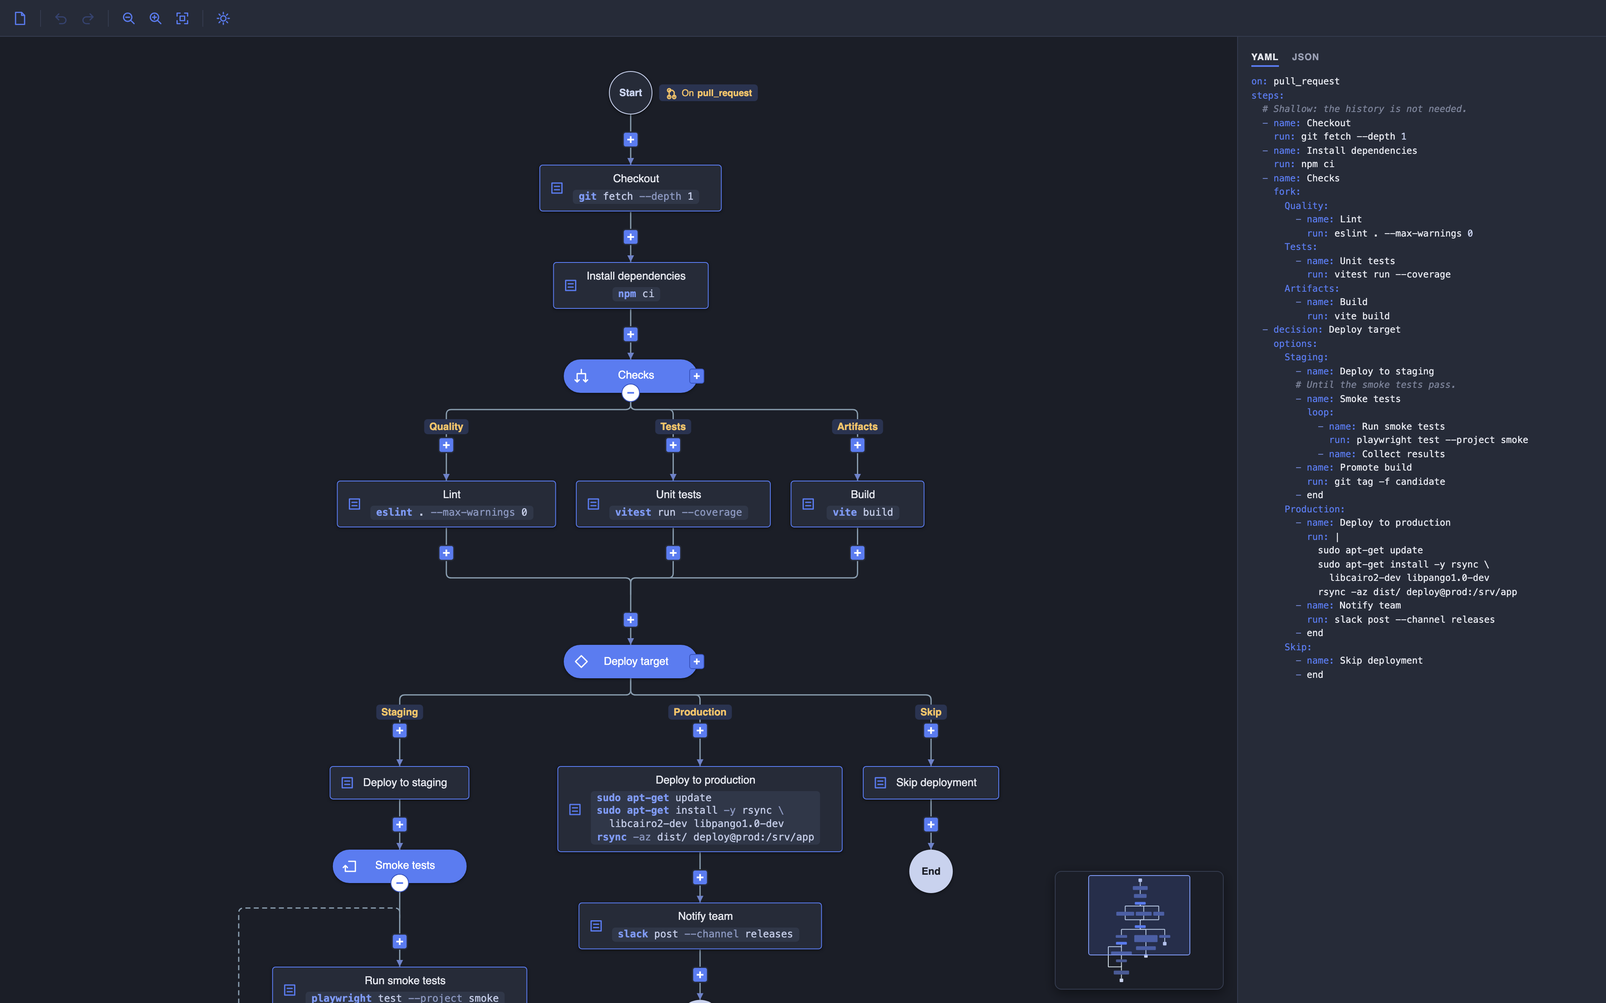
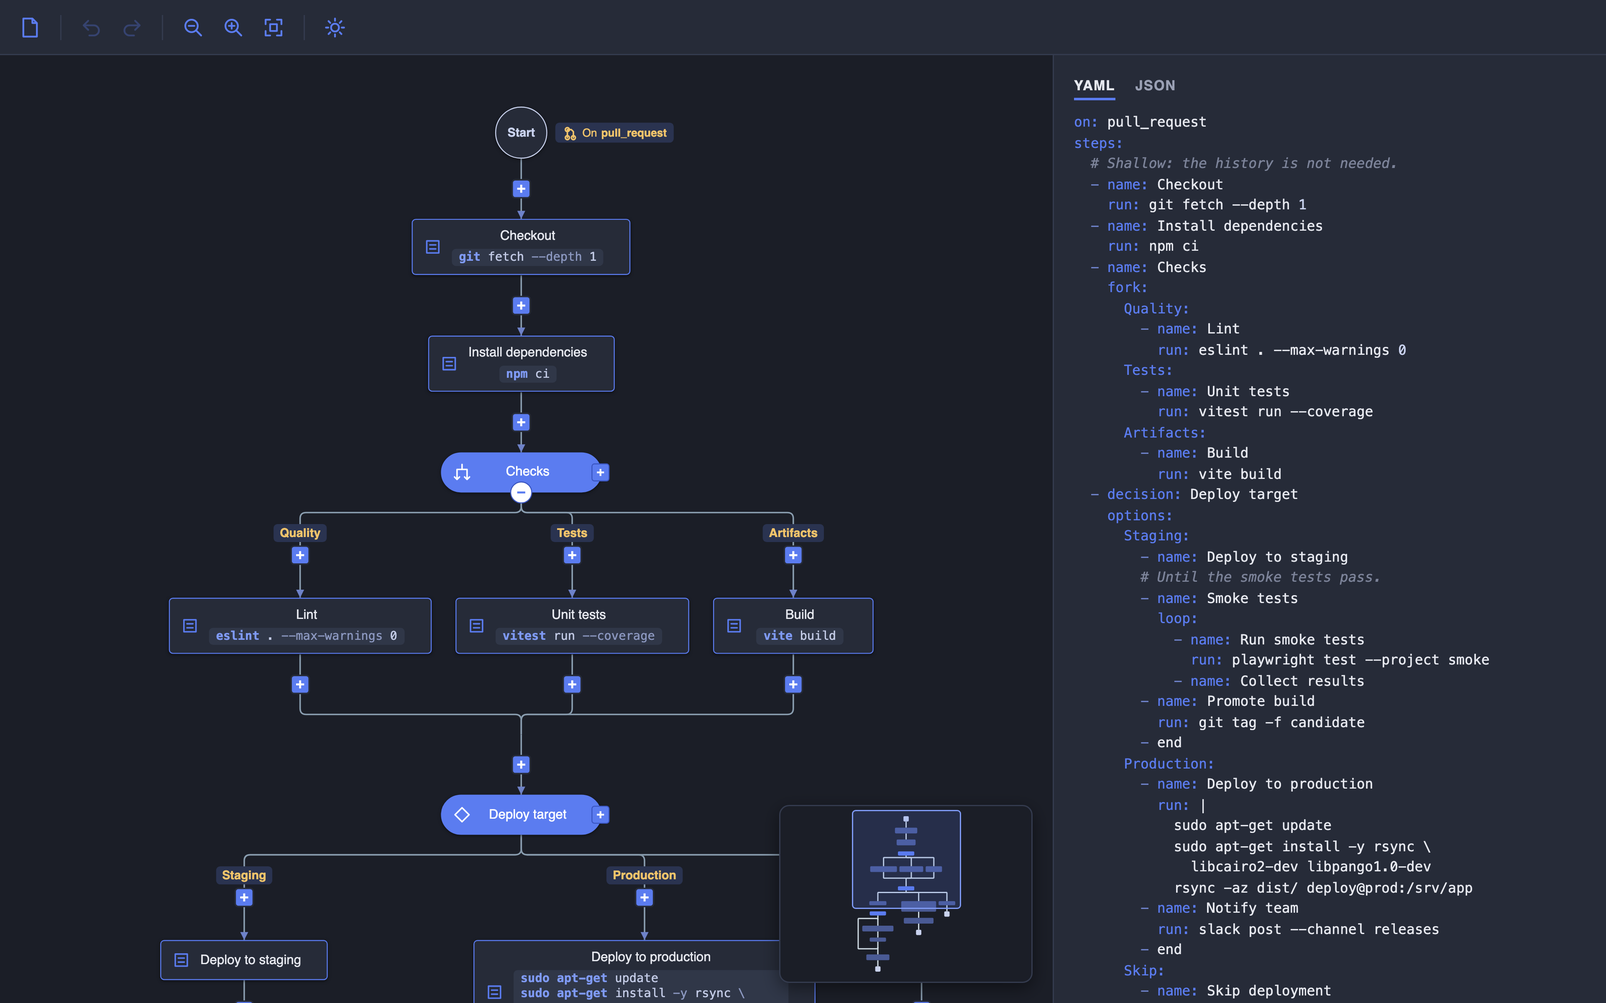
refactor(ci-pipeline-editor): the box of a loop carries the room for its return link
The return link of a loop ran outside the box of the group, and the room
for it was asked of the tree layout as the `prevSiblingGap` of the loop -
and only when the loop had a sibling on its left, because a gap on one
side moves an element by half of it and a lone loop is to line up with
its parent.

That left the room invisible to everything else. A neighbouring column,
which is not a sibling of the loop but the subtree of an uncle, knew
nothing about it and came close enough for the link to cross it.

The box holds the room now, a gap on each side of the axis, and
`makeRoomForReturnLinks()` is gone. A width is geometry: every bounding
box and every layout around the group accounts for it by itself. Both
sides, so that the axis stays the center of the group and what hangs
below it lines up with the gates.

`fitGroupToContent()` sizes a group symmetrically around its axis for the
same reason, rather than hugging its content.

diff --git a/ci-pipeline-editor/react/src/layout/loop.ts b/ci-pipeline-editor/react/src/layout/loop.ts
@@ -27,10 +27,8 @@ import { createTreeLayout, fitGroupToContent, forkChildrenFrom, getAxisX, isSame
 
 /**
  * Horizontal distance between the return link and the tree. The link runs
- * outside of the box of the group; a loop with a sibling on its left asks
- * the tree layout for that much more room before it (see
- * `makeRoomForReturnLinks()` in `layout/index.ts`), so that the sibling keeps
- * clear of the link.
+ * beside the content, inside the box of the group, which is that much wider
+ * on each side of its axis to hold it.
  */
 export const LOOP_GAP = 40;
 /**
@@ -85,8 +83,7 @@ function collectTree(graph: dia.Graph, roots: dia.Element[]): dia.Element[] {
  * 1. The tree grows down from `start` (with `end` excluded from the layout),
  *    centered on the axis of `start` as the tree layout puts it: a chain of
  *    nodes lines up with the gates. The return link runs a gap left of the
- *    tree, outside of the box of the group; the group's `prevSiblingGap`
- *    keeps a sibling on the left clear of it.
+ *    tree, inside the box of the group, which carries the room for it.
  * 2. `end` is placed below the tree, on the axis, as far as balances the
  *    return link around the tree - a short way below `start` when there is
  *    no tree.
@@ -114,7 +111,7 @@ export function layoutLoopGroup(graph: dia.Graph, group: GroupModel): void {
     // An emptied loop has no tree: `start` links straight down to `end`, and the column of `start` stands in.
     const treeBBox = graph.getCellsBBox(tree) ?? new g.Rect(startBBox.x, startBBox.corner().y + PARENT_GAP, startBBox.width, 0);
 
-    // The return link runs a gap left of everything, outside of the box of the group.
+    // The return link runs a gap left of everything, inside the box of the group.
     const returnX = Math.min(treeBBox.x, startBBox.x) - LOOP_GAP;
 
     // `end` below the tree, as far as balances the return link's run around
@@ -165,8 +162,9 @@ export function layoutLoopGroup(graph: dia.Graph, group: GroupModel): void {
     }
 
     // The box of the group: the tree and the gates, the drop of the return
-    // link below `end` included - not the link's run up the side, which the
-    // `prevSiblingGap` of the group makes room for.
+    // link below `end` included, and a gap on each side of the axis for the
+    // link's run up the side. On each side, so that the axis stays the center
+    // of the group and what hangs below it lines up with the gates.
     const content = treeBBox.union(startBBox).union(end.getBBox()).union(new g.Rect(endX, belowEnd, 0, 0));
-    fitGroupToContent(group, content);
+    fitGroupToContent(group, content, LOOP_GAP);
 }

diff --git a/ci-pipeline-editor/ts/src/layout/loop.ts b/ci-pipeline-editor/ts/src/layout/loop.ts
@@ -26,10 +26,8 @@ import { createTreeLayout, fitGroupToContent, forkChildrenFrom, getAxisX, isSame
 
 /**
  * Horizontal distance between the return link and the tree. The link runs
- * outside of the box of the group; a loop with a sibling on its left asks
- * the tree layout for that much more room before it (see
- * `makeRoomForReturnLinks()` in `layout/index.ts`), so that the sibling keeps
- * clear of the link.
+ * beside the content, inside the box of the group, which is that much wider
+ * on each side of its axis to hold it.
  */
 export const LOOP_GAP = 40;
 /**
@@ -84,8 +82,7 @@ function collectTree(graph: dia.Graph, roots: dia.Element[]): dia.Element[] {
  * 1. The tree grows down from `start` (with `end` excluded from the layout),
  *    centered on the axis of `start` as the tree layout puts it: a chain of
  *    nodes lines up with the gates. The return link runs a gap left of the
- *    tree, outside of the box of the group; the group's `prevSiblingGap`
- *    keeps a sibling on the left clear of it.
+ *    tree, inside the box of the group, which carries the room for it.
  * 2. `end` is placed below the tree, on the axis, as far as balances the
  *    return link around the tree - a short way below `start` when there is
  *    no tree.
@@ -113,7 +110,7 @@ export function layoutLoopGroup(graph: dia.Graph, group: GroupModel): void {
     // An emptied loop has no tree: `start` links straight down to `end`, and the column of `start` stands in.
     const treeBBox = graph.getCellsBBox(tree) ?? new g.Rect(startBBox.x, startBBox.corner().y + PARENT_GAP, startBBox.width, 0);
 
-    // The return link runs a gap left of everything, outside of the box of the group.
+    // The return link runs a gap left of everything, inside the box of the group.
     const returnX = Math.min(treeBBox.x, startBBox.x) - LOOP_GAP;
 
     // `end` below the tree, as far as balances the return link's run around
@@ -164,8 +161,9 @@ export function layoutLoopGroup(graph: dia.Graph, group: GroupModel): void {
     }
 
     // The box of the group: the tree and the gates, the drop of the return
-    // link below `end` included - not the link's run up the side, which the
-    // `prevSiblingGap` of the group makes room for.
+    // link below `end` included, and a gap on each side of the axis for the
+    // link's run up the side. On each side, so that the axis stays the center
+    // of the group and what hangs below it lines up with the gates.
     const content = treeBBox.union(startBBox).union(end.getBBox()).union(new g.Rect(endX, belowEnd, 0, 0));
-    fitGroupToContent(group, content);
+    fitGroupToContent(group, content, LOOP_GAP);
 }

diff --git a/ci-pipeline-editor/react/src/layout/index.ts b/ci-pipeline-editor/react/src/layout/index.ts
@@ -1,7 +1,7 @@
 import type { dia, g } from '@joint/plus';
 
 import { layoutForkGroup } from './fork';
-import { LOOP_GAP, LOOP_START_ROOM, layoutLoopGroup } from './loop';
+import { LOOP_START_ROOM, layoutLoopGroup } from './loop';
 import { AddButtonModel, DecisionModel, GroupModel, GroupStartModel, LinkModel, isGate } from '../shapes';
 import type { GroupKind } from '../shapes';
 import { createTreeLayout } from './tree';
@@ -122,24 +122,6 @@ function nameOptions(graph: dia.Graph): void {
     }
 }
 
-/**
- * Gives every expanded loop with a sibling on its left extra room before it
- * (`prevSiblingGap`), for its return link, which runs outside of the box of
- * the group. Not a loop without one: the tree layout would shift a lone
- * child by half the gap, and a loop below a single parent is to line up
- * with it. Not a collapsed loop either: it shows no return link.
- */
-function makeRoomForReturnLinks(graph: dia.Graph): void {
-    for (const group of graph.getElements().filter(GroupModel.isGroup)) {
-        if (group.getKind() !== 'loop') continue;
-        // A collapsed loop shows no return link: no room for it.
-        const [parent] = graph.getNeighbors(group, { inbound: true });
-        const siblings = parent && !group.isCollapsed() ? getOptions(graph, parent) : [];
-        siblings.sort((a, b) => ((a.get('siblingRank') ?? 0) - (b.get('siblingRank') ?? 0)) || (a.getBBox().x - b.getBBox().x));
-        group.set({ prevSiblingGap: siblings.indexOf(group) > 0 ? LOOP_GAP : 0 });
-    }
-}
-
 /** Lays out the content of an expanded group; each kind of group has a layout of its own. */
 function layoutGroup(graph: dia.Graph, group: GroupModel): void {
     switch (group.getKind()) {
@@ -222,7 +204,6 @@ function anchorGroupLinks(graph: dia.Graph, groups: GroupModel[]): void {
 export function runLayout(graph: dia.Graph, root: dia.Element): g.Rect | null {
 
     makeRoomForOptions(graph);
-    makeRoomForReturnLinks(graph);
 
     const groups = graph.getElements()
         .filter(GroupModel.isGroup)

diff --git a/ci-pipeline-editor/ts/src/layout/index.ts b/ci-pipeline-editor/ts/src/layout/index.ts
@@ -1,7 +1,7 @@
 import type { dia, g } from '@joint/plus';
 
 import { layoutForkGroup } from './fork';
-import { LOOP_GAP, LOOP_START_ROOM, layoutLoopGroup } from './loop';
+import { LOOP_START_ROOM, layoutLoopGroup } from './loop';
 import { AddButtonModel, DecisionModel, GroupModel, GroupStartModel, LinkModel, isGate } from '../shapes';
 import type { GroupKind } from '../shapes';
 import { createTreeLayout } from './tree';
@@ -122,24 +122,6 @@ function nameOptions(graph: dia.Graph): void {
     }
 }
 
-/**
- * Gives every expanded loop with a sibling on its left extra room before it
- * (`prevSiblingGap`), for its return link, which runs outside of the box of
- * the group. Not a loop without one: the tree layout would shift a lone
- * child by half the gap, and a loop below a single parent is to line up
- * with it. Not a collapsed loop either: it shows no return link.
- */
-function makeRoomForReturnLinks(graph: dia.Graph): void {
-    for (const group of graph.getElements().filter(GroupModel.isGroup)) {
-        if (group.getKind() !== 'loop') continue;
-        // A collapsed loop shows no return link: no room for it.
-        const [parent] = graph.getNeighbors(group, { inbound: true });
-        const siblings = parent && !group.isCollapsed() ? getOptions(graph, parent) : [];
-        siblings.sort((a, b) => ((a.get('siblingRank') ?? 0) - (b.get('siblingRank') ?? 0)) || (a.getBBox().x - b.getBBox().x));
-        group.set({ prevSiblingGap: siblings.indexOf(group) > 0 ? LOOP_GAP : 0 });
-    }
-}
-
 /** Lays out the content of an expanded group; each kind of group has a layout of its own. */
 function layoutGroup(graph: dia.Graph, group: GroupModel): void {
     switch (group.getKind()) {
@@ -222,7 +204,6 @@ function anchorGroupLinks(graph: dia.Graph, groups: GroupModel[]): void {
 export function runLayout(graph: dia.Graph, root: dia.Element): g.Rect | null {
 
     makeRoomForOptions(graph);
-    makeRoomForReturnLinks(graph);
 
     const groups = graph.getElements()
         .filter(GroupModel.isGroup)

diff --git a/ci-pipeline-editor/react/src/layout/tree.ts b/ci-pipeline-editor/react/src/layout/tree.ts
@@ -77,11 +77,13 @@ export function createTreeLayout(graph: dia.Graph, options: Partial<layout.TreeL
  * (see `anchorGroupLinks()` in `index.ts`), so the group does not have to be
  * symmetric around it.
  */
-export function fitGroupToContent(group: GroupModel, content: g.Rect): void {
+export function fitGroupToContent(group: GroupModel, content: g.Rect, outside: number = 0): void {
+    const axisX = group.getAxisX();
+    const halfWidth = Math.max(axisX - content.x, content.corner().x - axisX) + outside + GROUP_PADDING;
     const top = group.getStart().getBBox().y;
     const bottom = group.getEnd().getBBox().corner().y;
-    group.position(content.x - GROUP_PADDING, top);
-    group.resize(content.width + 2 * GROUP_PADDING, bottom - top);
+    group.position(axisX - halfWidth, top);
+    group.resize(2 * halfWidth, bottom - top);
 }
 
 /**

diff --git a/ci-pipeline-editor/ts/src/layout/tree.ts b/ci-pipeline-editor/ts/src/layout/tree.ts
@@ -76,11 +76,13 @@ export function createTreeLayout(graph: dia.Graph, options: Partial<layout.TreeL
  * (see `anchorGroupLinks()` in `index.ts`), so the group does not have to be
  * symmetric around it.
  */
-export function fitGroupToContent(group: GroupModel, content: g.Rect): void {
+export function fitGroupToContent(group: GroupModel, content: g.Rect, outside: number = 0): void {
+    const axisX = group.getAxisX();
+    const halfWidth = Math.max(axisX - content.x, content.corner().x - axisX) + outside + GROUP_PADDING;
     const top = group.getStart().getBBox().y;
     const bottom = group.getEnd().getBBox().corner().y;
-    group.position(content.x - GROUP_PADDING, top);
-    group.resize(content.width + 2 * GROUP_PADDING, bottom - top);
+    group.position(axisX - halfWidth, top);
+    group.resize(2 * halfWidth, bottom - top);
 }
 
 /**

diff --git a/ci-pipeline-editor/ts/README.md b/ci-pipeline-editor/ts/README.md
@@ -89,7 +89,7 @@ An editor of a CI/CD pipeline, built with JointJS+: a tree laid out by `layout.T
 1. The build embeds in a group its start node, its content, its end node and the inner links. The outer links (`parent → group`, `group → child`) are attached to the group element. A fork with two branches `a` and `b` embeds them and the links `start → a`, `start → b`, `a → end`, `b → end`. A group without branches is empty: a fork embeds `start → end`, a loop `start → end` and the return link `end → start`. Branches are added with the button on the start of a fork; a loop grows by insertions into its first link.
 2. `runLayout()` sorts the expanded groups by depth, deepest first, and lays each of them out by its kind. A fresh `TreeLayout` is used for every tree: its `updatePosition` moves elements with `{ deep: true }`, so a nested group carries its content along, and its `filter` drops the end node the tree would otherwise run into, so that the content stays a tree.
 3. *Fork group:* `layoutTree(start)` lays out the branches. The end node is placed below the bounding box of that tree (`treeLayout.getLayoutArea(start)`) on the vertical axis of the start node -- a parent gap plus a third further down, so that the part of a join a leaf has of its own is a full parent gap long -- and the links into it get two vertices forming a horizontal bar, a third of the gap above the end node.
-4. *Loop group:* `layoutTree(start)` lays out the tree centered on the axis of the start node, as the tree layout puts it, so that a chain of nodes lines up with the gates; the end node is placed below the tree on that axis, as far as makes the return link run as far above the tree as below it. The return link runs a gap left of the tree, outside of the box of the group; a loop with a sibling on its left gets that gap as its `prevSiblingGap` in the tree layout (`makeRoomForReturnLinks()`), a lone one does not, as the gap would shift it off its parent. The tree hangs from the start node with the usual bar, and its leaves enter the end node from the side, on its level -- a leaf right above the end node connects straight. The return link runs down the link out of the end node and diverges from it a drop below, turns left, runs up the side of the group, turns right under the start node, merges into the link out of the start node a drop below the pill and ends a little further down it (a `bottom` anchor with a `dy`); it has no arrowhead, an arrow label in its middle, turned along the link, shows the way -- above the insert buttons of those links, which move down to make way; it lies below the other links (`z: 0`), so that a leaf entering the end node from the left runs over it.
+4. *Loop group:* `layoutTree(start)` lays out the tree centered on the axis of the start node, as the tree layout puts it, so that a chain of nodes lines up with the gates; the end node is placed below the tree on that axis, as far as makes the return link run as far above the tree as below it. The return link runs a gap left of the tree, inside the box of the group, which is that much wider on each side of its axis to hold it. The room is part of the width on purpose: a width is geometry, which every bounding box and every layout around the group accounts for by itself, while a sibling gap is an instruction to one layout and reaches no further -- and, applied to one side, it moves the group by half of what it reserves, so a lone loop would sit off the axis of its parent. The tree hangs from the start node with the usual bar, and its leaves enter the end node from the side, on its level -- a leaf right above the end node connects straight. The return link runs down the link out of the end node and diverges from it a drop below, turns left, runs up the side of the group, turns right under the start node, merges into the link out of the start node a drop below the pill and ends a little further down it (a `bottom` anchor with a `dy`); it has no arrowhead, an arrow label in its middle, turned along the link, shows the way -- above the insert buttons of those links, which move down to make way; it lies below the other links (`z: 0`), so that a leaf entering the end node from the left runs over it.
 5. In both cases the group is positioned and sized by hand: from the top of the start node to the bottom of the end node, as wide as its content. The layout anchors the outer links of a group on the link models (`anchorGroupLinks()` in `layout/index.ts`): a link into a group at the top of its start node, a link out of a group at the bottom of its end node; the paper's default anchor and connection point read the models (`center` and `bbox` with `useModelGeometry`), so the outer links meet the group exactly where the start and end nodes are, rendered or not - and the chip of the trigger, which the view of the start draws outside of its box, does not pull the links. The `updateVertices` callback of every `TreeLayout` draws the usual horizontal bar between the *axes* of the parent and the child, not between the middles of their boxes, so a link into a group turns down on the axis of its gates.
 6. A collapsed group skips all of that: it is resized to a node and its start node is placed over it. The paper's `cellVisibility` hides every group, every cell that has a collapsed ancestor -- except the start node of the collapsed group itself -- and every link whose end is hidden. The links to a hidden group still render: the paper routes them from the models (`useModelGeometry`), which is also why the anchors of the links of a group are set from the models.
 7. Finally the outer tree is laid out from the root with `layoutTree(root)`. `layout()` is not used, because it would start a tree from every source of the graph -- including the start node of every group. The paper is then scaled to fit the visible content.

diff --git a/ci-pipeline-editor/react/README.md b/ci-pipeline-editor/react/README.md
@@ -85,7 +85,7 @@ An editor of a CI/CD pipeline, built with `@joint/react-plus`: a tree laid out b
 1. The build embeds in a group its start node, its content, its end node and the inner links. The outer links (`parent → group`, `group → child`) are attached to the group element. A fork with two branches `a` and `b` embeds them and the links `start → a`, `start → b`, `a → end`, `b → end`. A group without branches is empty: a fork embeds `start → end`, a loop `start → end` and the return link `end → start`. Branches are added with the button on the start of a fork; a loop grows by insertions into its first link.
 2. `runLayout()` sorts the expanded groups by depth, deepest first, and lays each of them out by its kind. A fresh `TreeLayout` is used for every tree: its `updatePosition` moves elements with `{ deep: true }`, so a nested group carries its content along, and its `filter` drops the end node the tree would otherwise run into, so that the content stays a tree.
 3. *Fork group:* `layoutTree(start)` lays out the branches. The end node is placed below the bounding box of that tree (`treeLayout.getLayoutArea(start)`) on the vertical axis of the start node -- a parent gap plus a third further down, so that the part of a join a leaf has of its own is a full parent gap long -- and the links into it get two vertices forming a horizontal bar, a third of the gap above the end node.
-4. *Loop group:* `layoutTree(start)` lays out the tree centered on the axis of the start node, as the tree layout puts it, so that a chain of nodes lines up with the gates; the end node is placed below the tree on that axis, as far as makes the return link run as far above the tree as below it. The return link runs a gap left of the tree, outside of the box of the group; a loop with a sibling on its left gets that gap as its `prevSiblingGap` in the tree layout (`makeRoomForReturnLinks()`), a lone one does not, as the gap would shift it off its parent. The tree hangs from the start node with the usual bar, and its leaves enter the end node from the side, on its level -- a leaf right above the end node connects straight. The return link runs down the link out of the end node and diverges from it a drop below, turns left, runs up the side of the group, turns right under the start node, merges into the link out of the start node a drop below the pill and ends a little further down it (a `bottom` anchor with a `dy`); it has no arrowhead, an arrow label in its middle, turned along the link, shows the way -- above the insert buttons of those links, which move down to make way; it lies below the other links (`z: 0`), so that a leaf entering the end node from the left runs over it.
+4. *Loop group:* `layoutTree(start)` lays out the tree centered on the axis of the start node, as the tree layout puts it, so that a chain of nodes lines up with the gates; the end node is placed below the tree on that axis, as far as makes the return link run as far above the tree as below it. The return link runs a gap left of the tree, inside the box of the group, which is that much wider on each side of its axis to hold it. The room is part of the width on purpose: a width is geometry, which every bounding box and every layout around the group accounts for by itself, while a sibling gap is an instruction to one layout and reaches no further -- and, applied to one side, it moves the group by half of what it reserves, so a lone loop would sit off the axis of its parent. The tree hangs from the start node with the usual bar, and its leaves enter the end node from the side, on its level -- a leaf right above the end node connects straight. The return link runs down the link out of the end node and diverges from it a drop below, turns left, runs up the side of the group, turns right under the start node, merges into the link out of the start node a drop below the pill and ends a little further down it (a `bottom` anchor with a `dy`); it has no arrowhead, an arrow label in its middle, turned along the link, shows the way -- above the insert buttons of those links, which move down to make way; it lies below the other links (`z: 0`), so that a leaf entering the end node from the left runs over it.
 5. In both cases the group is positioned and sized by hand: from the top of the start node to the bottom of the end node, as wide as its content. The layout anchors the outer links of a group on the link models (`anchorGroupLinks()` in `layout/index.ts`): a link into a group at the top of its start node, a link out of a group at the bottom of its end node; the anchor and the connection point of the `@joint/react` paper preset read the models, so the outer links meet the group exactly where the start and end nodes are, rendered or not. The `updateVertices` callback of every `TreeLayout` draws the usual horizontal bar between the *axes* of the parent and the child, not between the middles of their boxes, so a link into a group turns down on the axis of its gates.
 6. A collapsed group skips all of that: it is resized to a node and its start node is placed over it. The paper's `cellVisibility` hides every group, every cell that has a collapsed ancestor -- except the start node of the collapsed group itself -- and every link whose end is hidden. The links to a hidden group still render: the paper routes them from the models (`useModelGeometry`), which is also why the anchors of the links of a group are set from the models.
 7. Finally the outer tree is laid out from the root with `layoutTree(root)`. `layout()` is not used, because it would start a tree from every source of the graph -- including the start node of every group. The paper is then scaled to fit the visible content.
